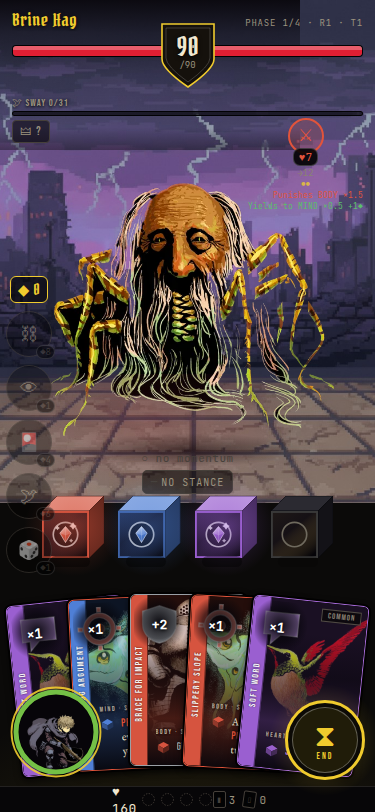
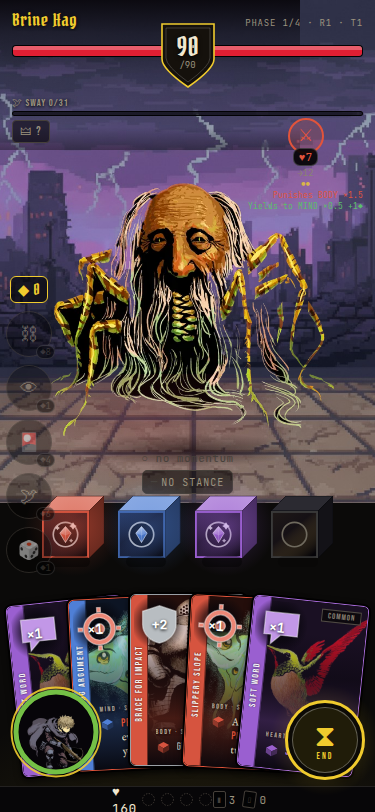
fix(combat): FREE glyph renders ABOVE its backdrop — explicit z-order
Owner diagnosis confirmed (2026-07-19): the glyphs read grey because the
radial backdrop painted ON TOP of the glyph on web — the backdrop Svg is
absolutely positioned while the glyph was a normal-flow sibling, and CSS
paints positioned elements above static ones regardless of child order.
Only the (also-positioned) number overlay stayed visible: white numbers
on grey pucks.

Every layer now stacks explicitly: backdrop (auto) < glyph (zIndex 1,
View-wrapped — RN-web guarantees position:relative on Views, a bare Svg
may stay static) < number overlay (zIndex 2). With the order fixed, the
pop tint from the previous commit actually shows.

Verified: mobile verify green (2658 tests); upgradeable-dice-e2e ALL
PASS — refreshed screenshots show the glyphs in full colour (red
crosshair rings, silver shield) instead of grey pucks.

Claude-Session: https://claude.ai/code/session_01ATuM8VXSUgok7qxmhtYrVC

diff --git a/axiomancer-mobile/components/combat/encounter/CombatBoard.tsx b/axiomancer-mobile/components/combat/encounter/CombatBoard.tsx
@@ -1642,22 +1642,31 @@ export const CombatCardFace = React.memo(function CombatCardFace({
                         {/* POP tint (owner call 2026-07-19): the raw category colour
                             read muddy over the art — the glyph brightens toward
                             white and takes a light edge, on a harder backdrop.
-                            Inert stays honestly grey (engine doesn't read it). */}
+                            Inert stays honestly grey (engine doesn't read it).
+                            zIndex is EXPLICIT on every layer: on web the
+                            absolutely-positioned backdrop painted ABOVE the
+                            normal-flow glyph (positioned beats static regardless
+                            of child order), greying the glyph out — the owner's
+                            "backdrop is on top of the glyph" report, same day. */}
                         {freeShape ? (
-                            <Svg width={glyphSize * 0.86} height={glyphSize * 0.86} viewBox="0 0 24 24">
-                                <Path
-                                    d={freeShape.d}
-                                    fill={f.inert ? baseKw : lightenHex(baseKw, 0.3)}
-                                    stroke={f.inert ? 'none' : 'rgba(255,255,255,0.45)'}
-                                    strokeWidth={0.7}
-                                    fillRule={freeShape.evenodd ? 'evenodd' : 'nonzero'}
-                                />
-                            </Svg>
+                            /* View wrapper: RN-web guarantees position:relative on
+                               Views (zIndex applies); a bare <Svg> may stay static. */
+                            <View style={{ zIndex: 1 }}>
+                                <Svg width={glyphSize * 0.86} height={glyphSize * 0.86} viewBox="0 0 24 24">
+                                    <Path
+                                        d={freeShape.d}
+                                        fill={f.inert ? baseKw : lightenHex(baseKw, 0.3)}
+                                        stroke={f.inert ? 'none' : 'rgba(255,255,255,0.45)'}
+                                        strokeWidth={0.7}
+                                        fillRule={freeShape.evenodd ? 'evenodd' : 'nonzero'}
+                                    />
+                                </Svg>
+                            </View>
                         ) : (
-                            <Text style={[styles.freeGlyph, { fontSize: glyphSize, lineHeight: glyphSize, color: f.inert ? baseKw : lightenHex(baseKw, 0.3) }]} allowFontScaling={false}>{f.freeGlyph}</Text>
+                            <Text style={[styles.freeGlyph, { fontSize: glyphSize, lineHeight: glyphSize, color: f.inert ? baseKw : lightenHex(baseKw, 0.3), zIndex: 1 }]} allowFontScaling={false}>{f.freeGlyph}</Text>
                         )}
                         {freeInner ? (
-                            <View style={[StyleSheet.absoluteFill, { alignItems: 'center', justifyContent: 'center' }]} pointerEvents="none">
+                            <View style={[StyleSheet.absoluteFill, { alignItems: 'center', justifyContent: 'center', zIndex: 2 }]} pointerEvents="none">
                                 <Text style={[styles.freeInner, large && styles.freeInnerLarge]} allowFontScaling={false}>{freeInner}</Text>
                             </View>
                         ) : null}
